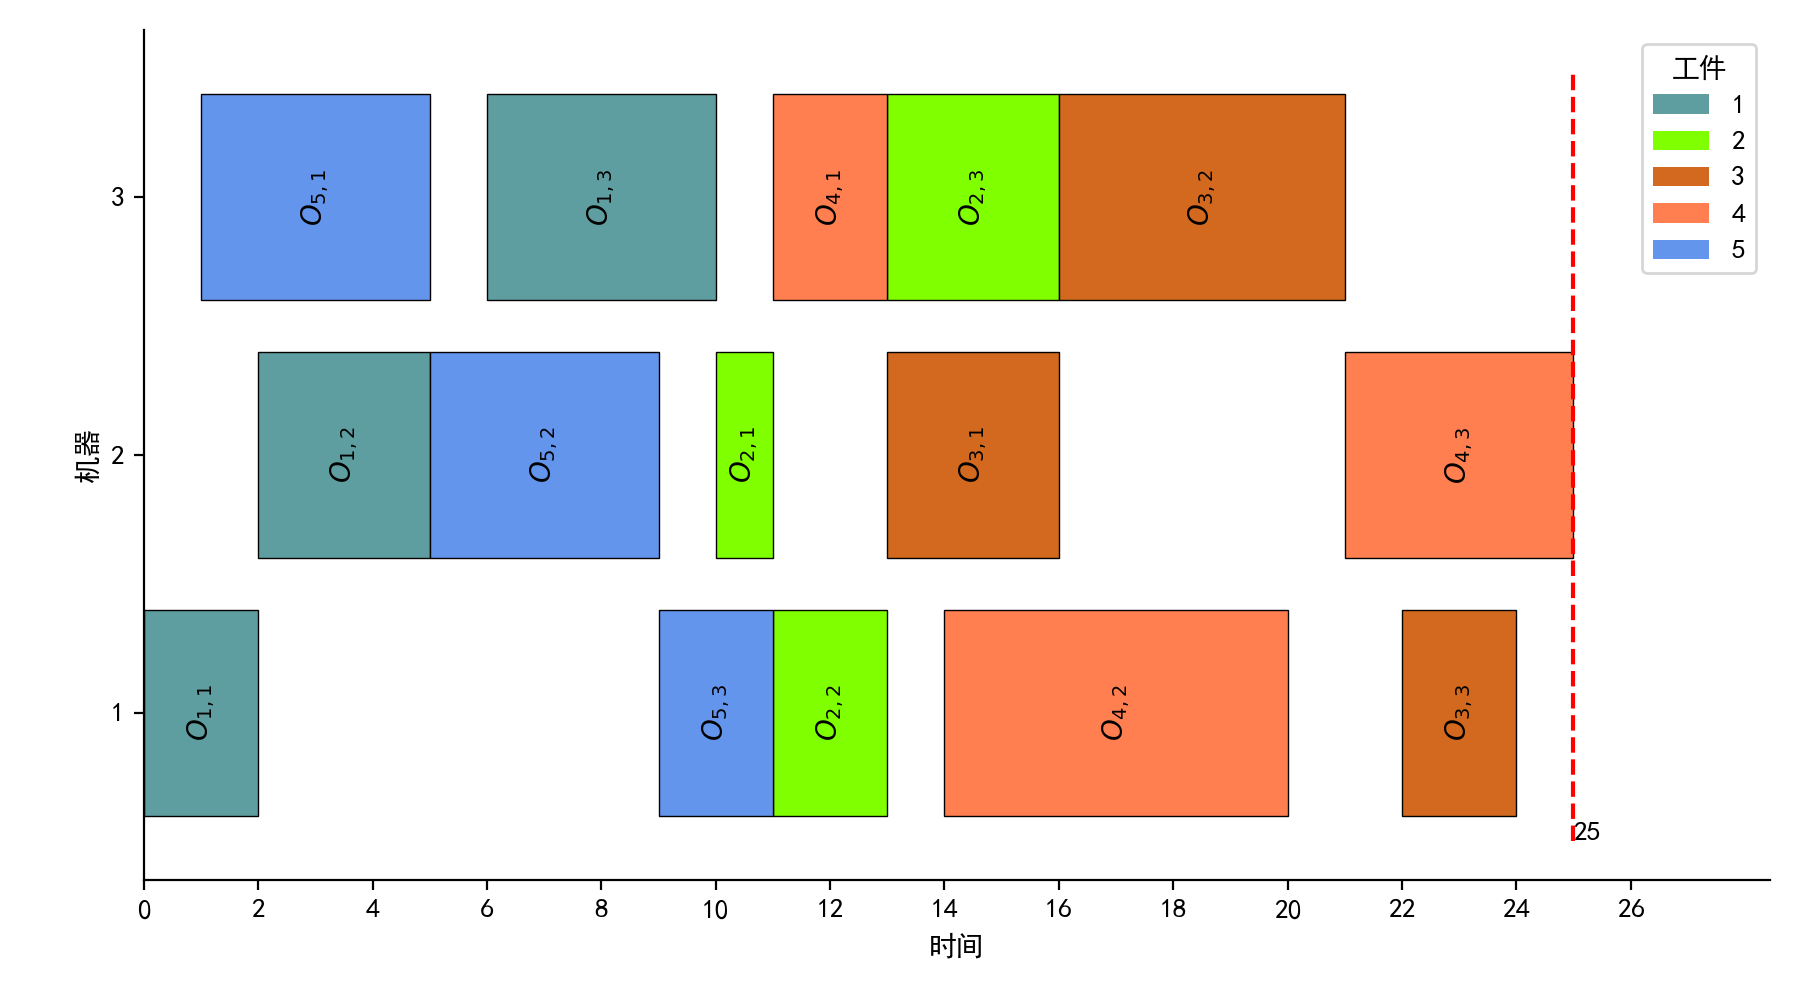
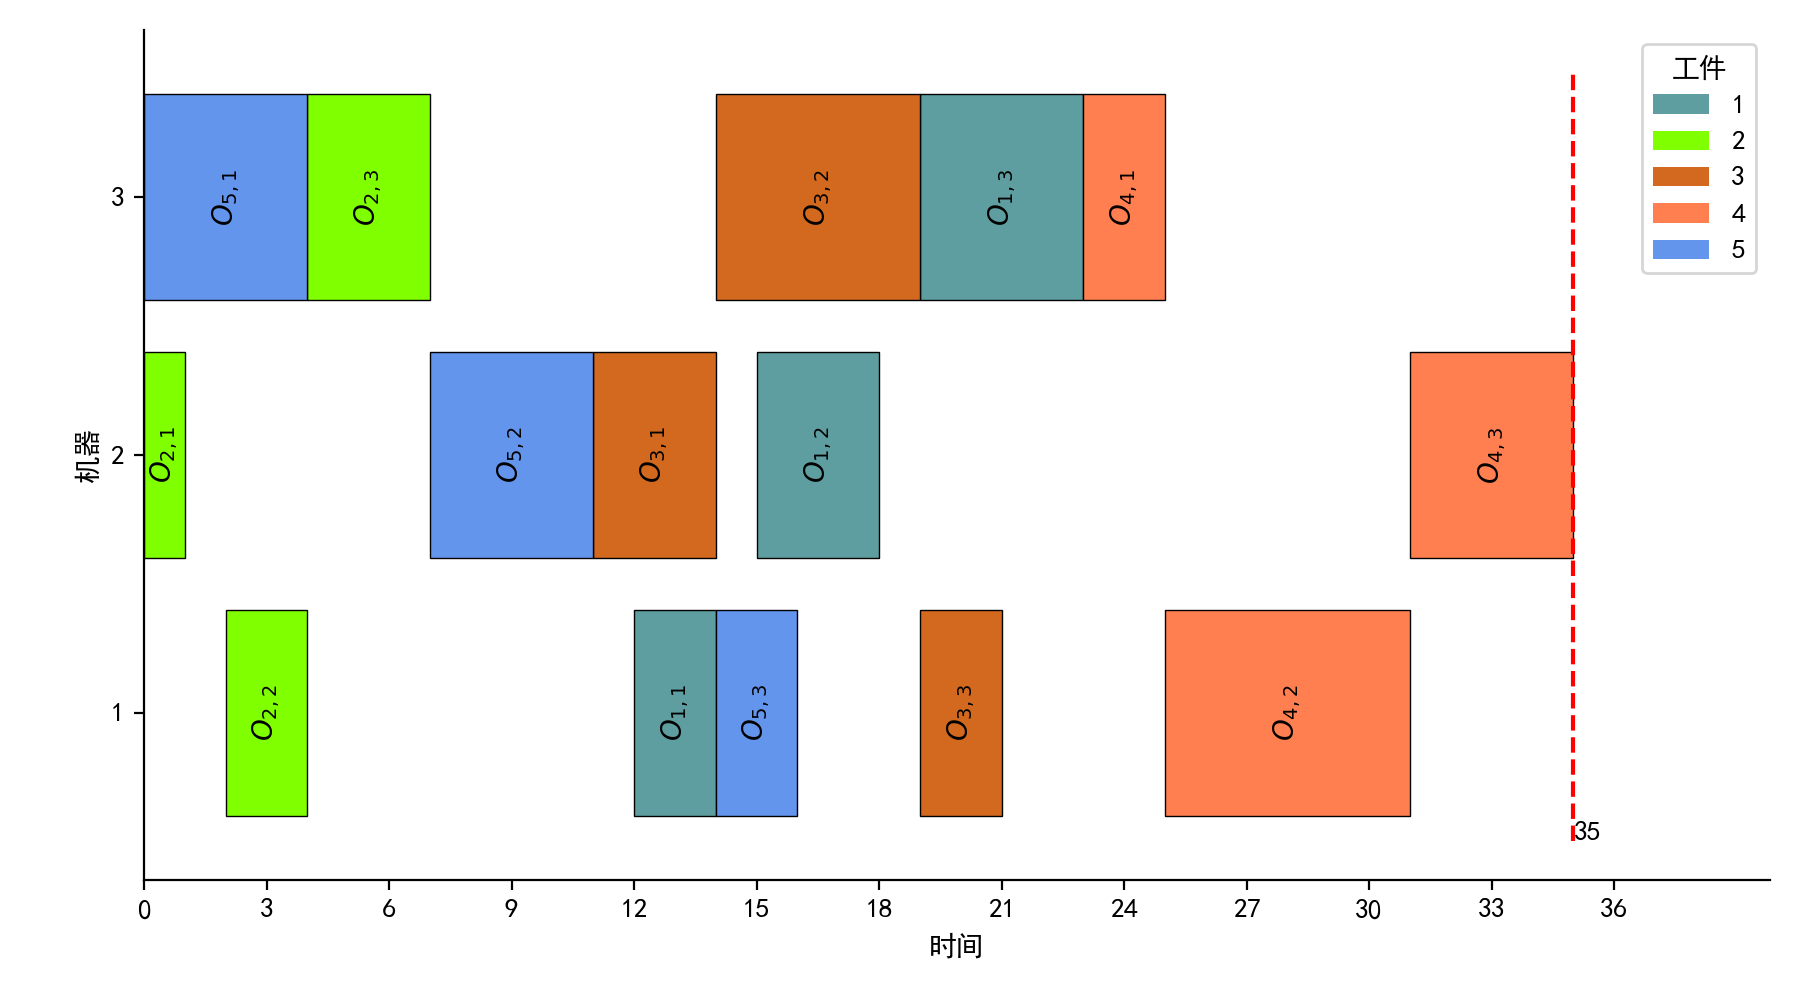
Add file via upload.

diff --git a/test_decode.py b/test_decode.py
@@ -8,9 +8,12 @@ def main(instance="example"):
     b = Utils.load_text("./src/data/limited_wait_jsp/%s.txt" % instance)
     c = Utils.string2data_wait(b, p, int, time_unit)
     problem = Utils.create_schedule(Jsp, n, m, p, tech, proc, limited_wait=c, time_unit=time_unit)
-    code = problem.lrwt()
+    code = problem.mrwt()
+    print(code, "# code")
     solution = problem.decode_limited_wait(code)
-    print(solution.schedule.makespan)
+    print(solution.code, "# solution.code")
+    print(solution.schedule.direction, "# solution.schedule.direction")
+    print(solution.schedule.makespan, "# makespan")
     solution.save_gantt_chart_to_csv("./Result/%s.csv" % instance)
     solution.gantt_chart_png("./Result/GanttChart/%s.png" % instance)
 
